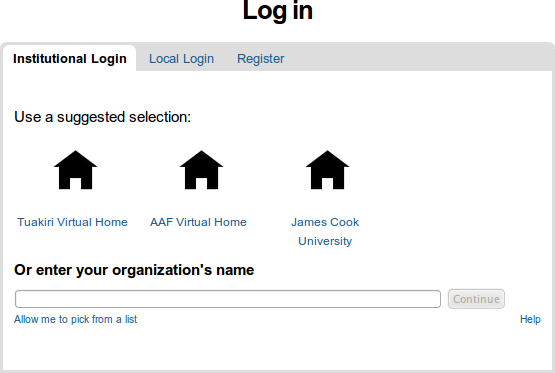
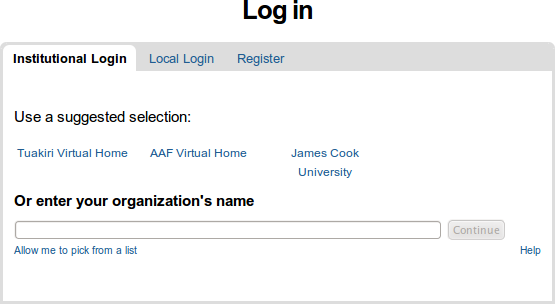
Update screenshot and readme

diff --git a/README.rst b/README.rst
@@ -20,7 +20,12 @@ In Action
    :alt: EDS login portlet within Plone.
 
 ``collective.shibboleth``'s EDS portlet in action, being used with the
-Australian and New Zealand Access Federations.
+Australian and New Zealand Access Federations.  The icons shown will
+automatically display an organisation's logo if provided within SAML metadata.
+At present, neither of these example federations support the relevant
+`metadata extensions
+<https://wiki.shibboleth.net/confluence/display/EDS10/4.+Metadata+Considerations>`
+and default to showing no logo.
 
 
 Features
